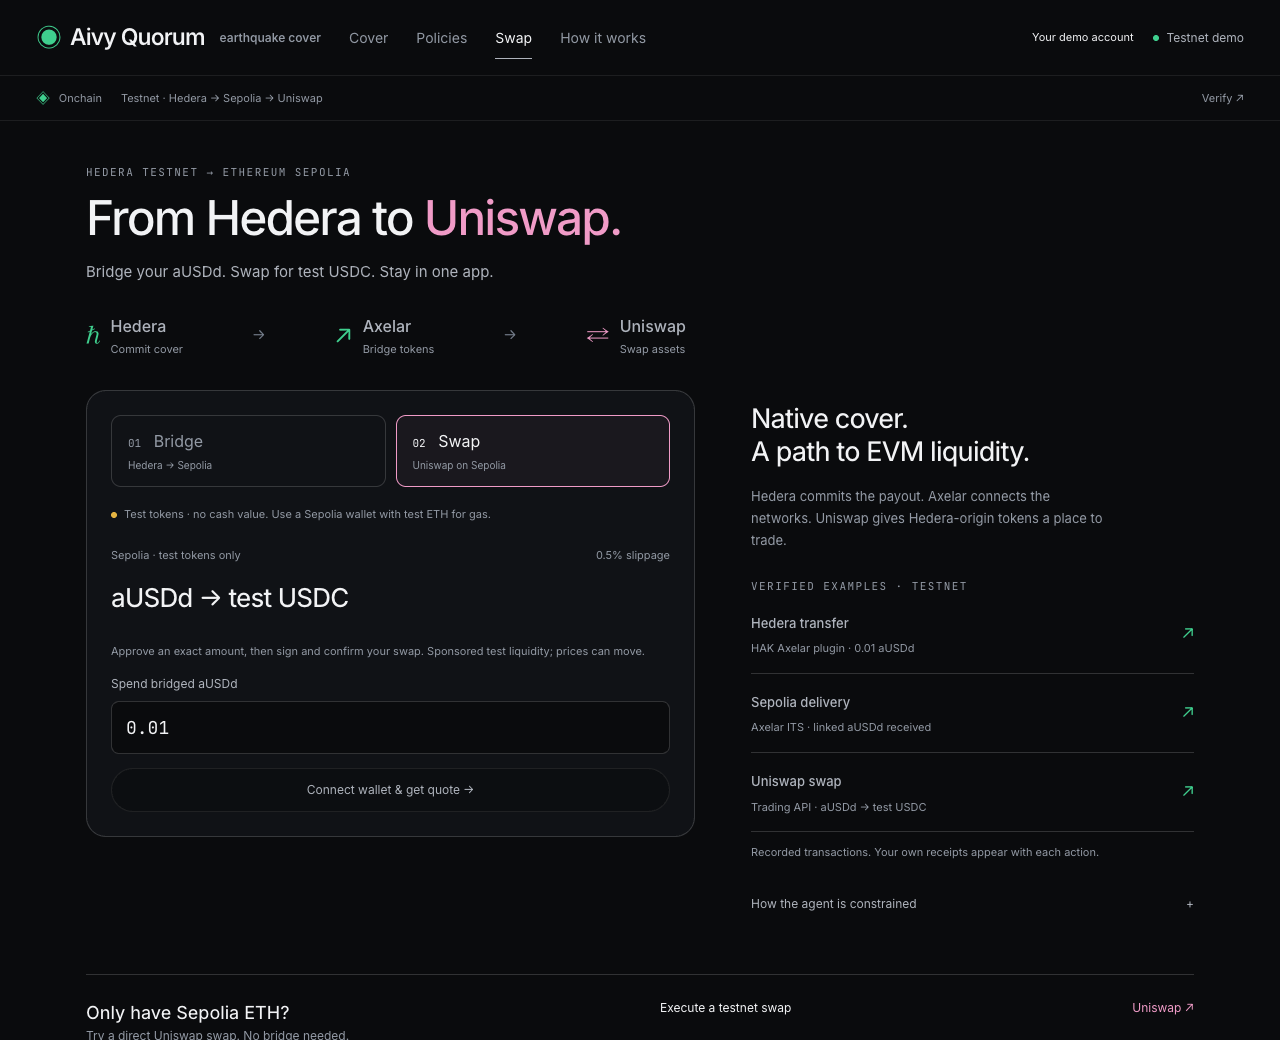
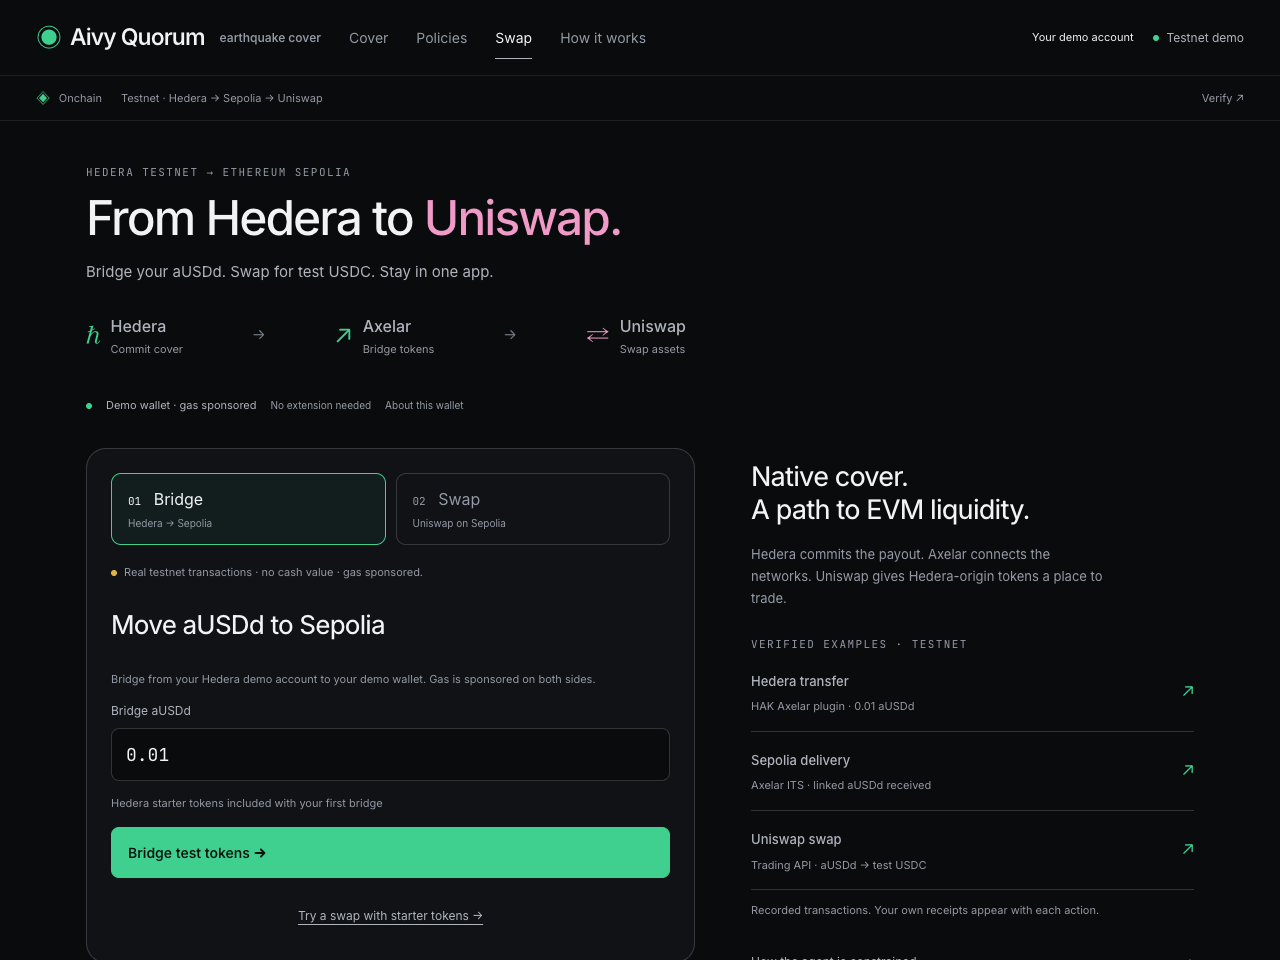
Refresh bridge screenshot and record live no-wallet regression

diff --git a/docs/qa/NO-EXTERNAL-WALLET.md b/docs/qa/NO-EXTERNAL-WALLET.md
@@ -29,3 +29,8 @@ seeded with the old `own` preference and old pending journals. An injected
 The production build contains no injected-wallet connection or signing calls.
 `npm test`: 89 passing; UI production build passes. README instructions and UI
 screenshots now show the single funded flow.
+
+The same 18 checks also passed on **https://quorum.aivylabs.xyz** after deployment,
+with zero extension access and zero browser errors. Served JS/CSS matched the
+local production build. The README’s earlier external-wallet screenshot was
+replaced with the current bridge flow.
